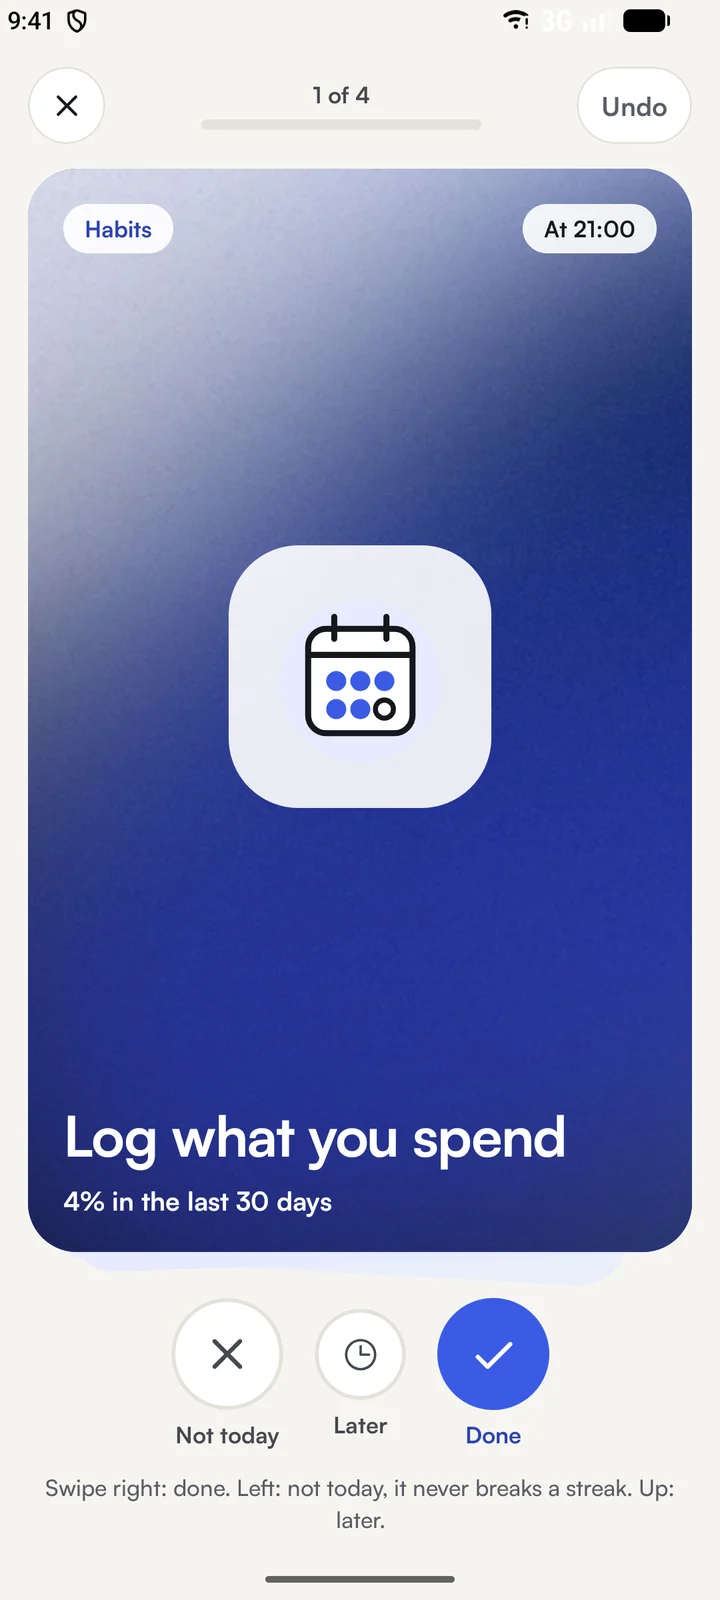
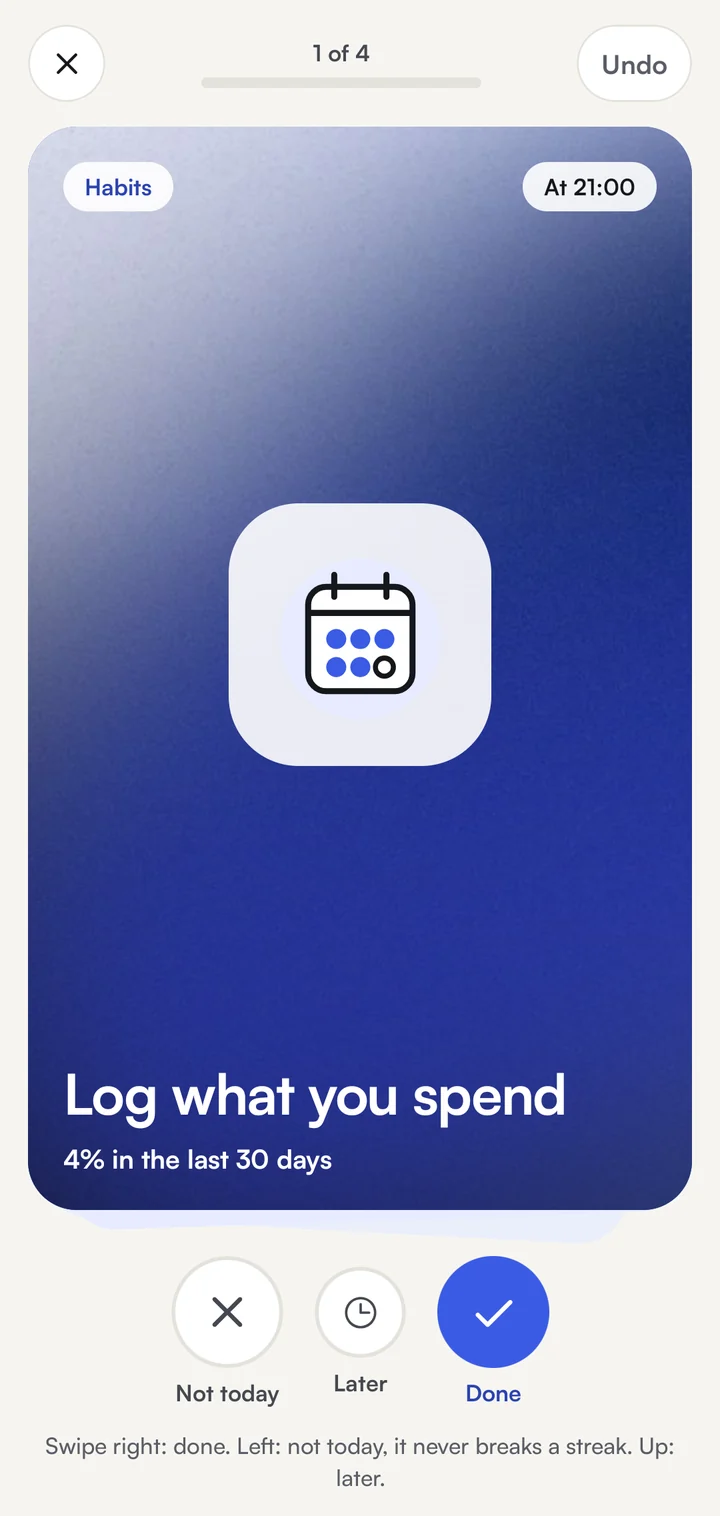
Landing phone shows only the app, no status or gesture bar

diff --git a/web/components/lifeplanner/playable-app.tsx b/web/components/lifeplanner/playable-app.tsx
@@ -5,8 +5,20 @@ import Image from 'next/image';
 
 type ScreenId = 'today' | 'checkin' | 'life' | 'coach' | 'money' | 'travel' | 'meals';
 
-// A hotspot is a tappable area on a screenshot, in percent of the screen.
+// A hotspot is a tappable area, in percent of the full 1080x2400 capture.
+// The images have the status bar and gesture bar (63px each) cut off, so
+// toImage() maps those numbers onto the cropped picture.
 type Hotspot = { label: string; to: ScreenId; x: number; y: number; w: number; h: number };
+
+const CAPTURE_H = 2400;
+const BAR_H = 63;
+const IMAGE_H = CAPTURE_H - 2 * BAR_H;
+
+function toImage(h: Hotspot) {
+  const top = ((h.y / 100) * CAPTURE_H - BAR_H) / IMAGE_H * 100;
+  const height = (h.h / 100) * CAPTURE_H / IMAGE_H * 100;
+  return { left: `${h.x}%`, top: `${Math.max(0, top)}%`, width: `${h.w}%`, height: `${height}%` };
+}
 
 const TABS: Hotspot[] = [
   { label: 'Today tab', to: 'today', x: 0, y: 90, w: 33, h: 8 },
@@ -98,7 +110,7 @@ export function PlayableApp({ intro }: { intro: ReactNode }) {
 
       <div className="order-2 md:col-start-2 md:row-start-1 md:row-span-2 md:sticky md:top-6 mx-auto w-[260px] sm:w-[300px]">
         <div className="rounded-[2.25rem] bg-lp-ink p-2 shadow-2xl shadow-lp-primary/20 dark:bg-black">
-          <div className="relative overflow-hidden rounded-[1.75rem] aspect-[1080/2400] bg-lp-bg">
+          <div className="relative overflow-hidden rounded-[1.75rem] aspect-[1080/2274] bg-lp-bg">
             {(Object.keys(SCREENS) as ScreenId[]).map((id) => (
               <Image
                 key={id}
@@ -119,13 +131,13 @@ export function PlayableApp({ intro }: { intro: ReactNode }) {
                 aria-label={h.label}
                 onClick={() => go(h.to)}
                 className="absolute rounded-xl cursor-pointer transition-colors hover:bg-lp-primary/10 focus-visible:outline focus-visible:outline-2 focus-visible:outline-lp-primary"
-                style={{ left: `${h.x}%`, top: `${h.y}%`, width: `${h.w}%`, height: `${h.h}%` }}
+                style={toImage(h)}
               />
             ))}
             {!touched && (
               <span
                 aria-hidden="true"
-                className="pointer-events-none absolute left-1/2 top-[54.5%] -translate-x-1/2 -translate-y-1/2 w-10 h-10 rounded-full bg-white/50 animate-ping"
+                className="pointer-events-none absolute left-1/2 top-[54.7%] -translate-x-1/2 -translate-y-1/2 w-10 h-10 rounded-full bg-white/50 animate-ping"
               />
             )}
           </div>
